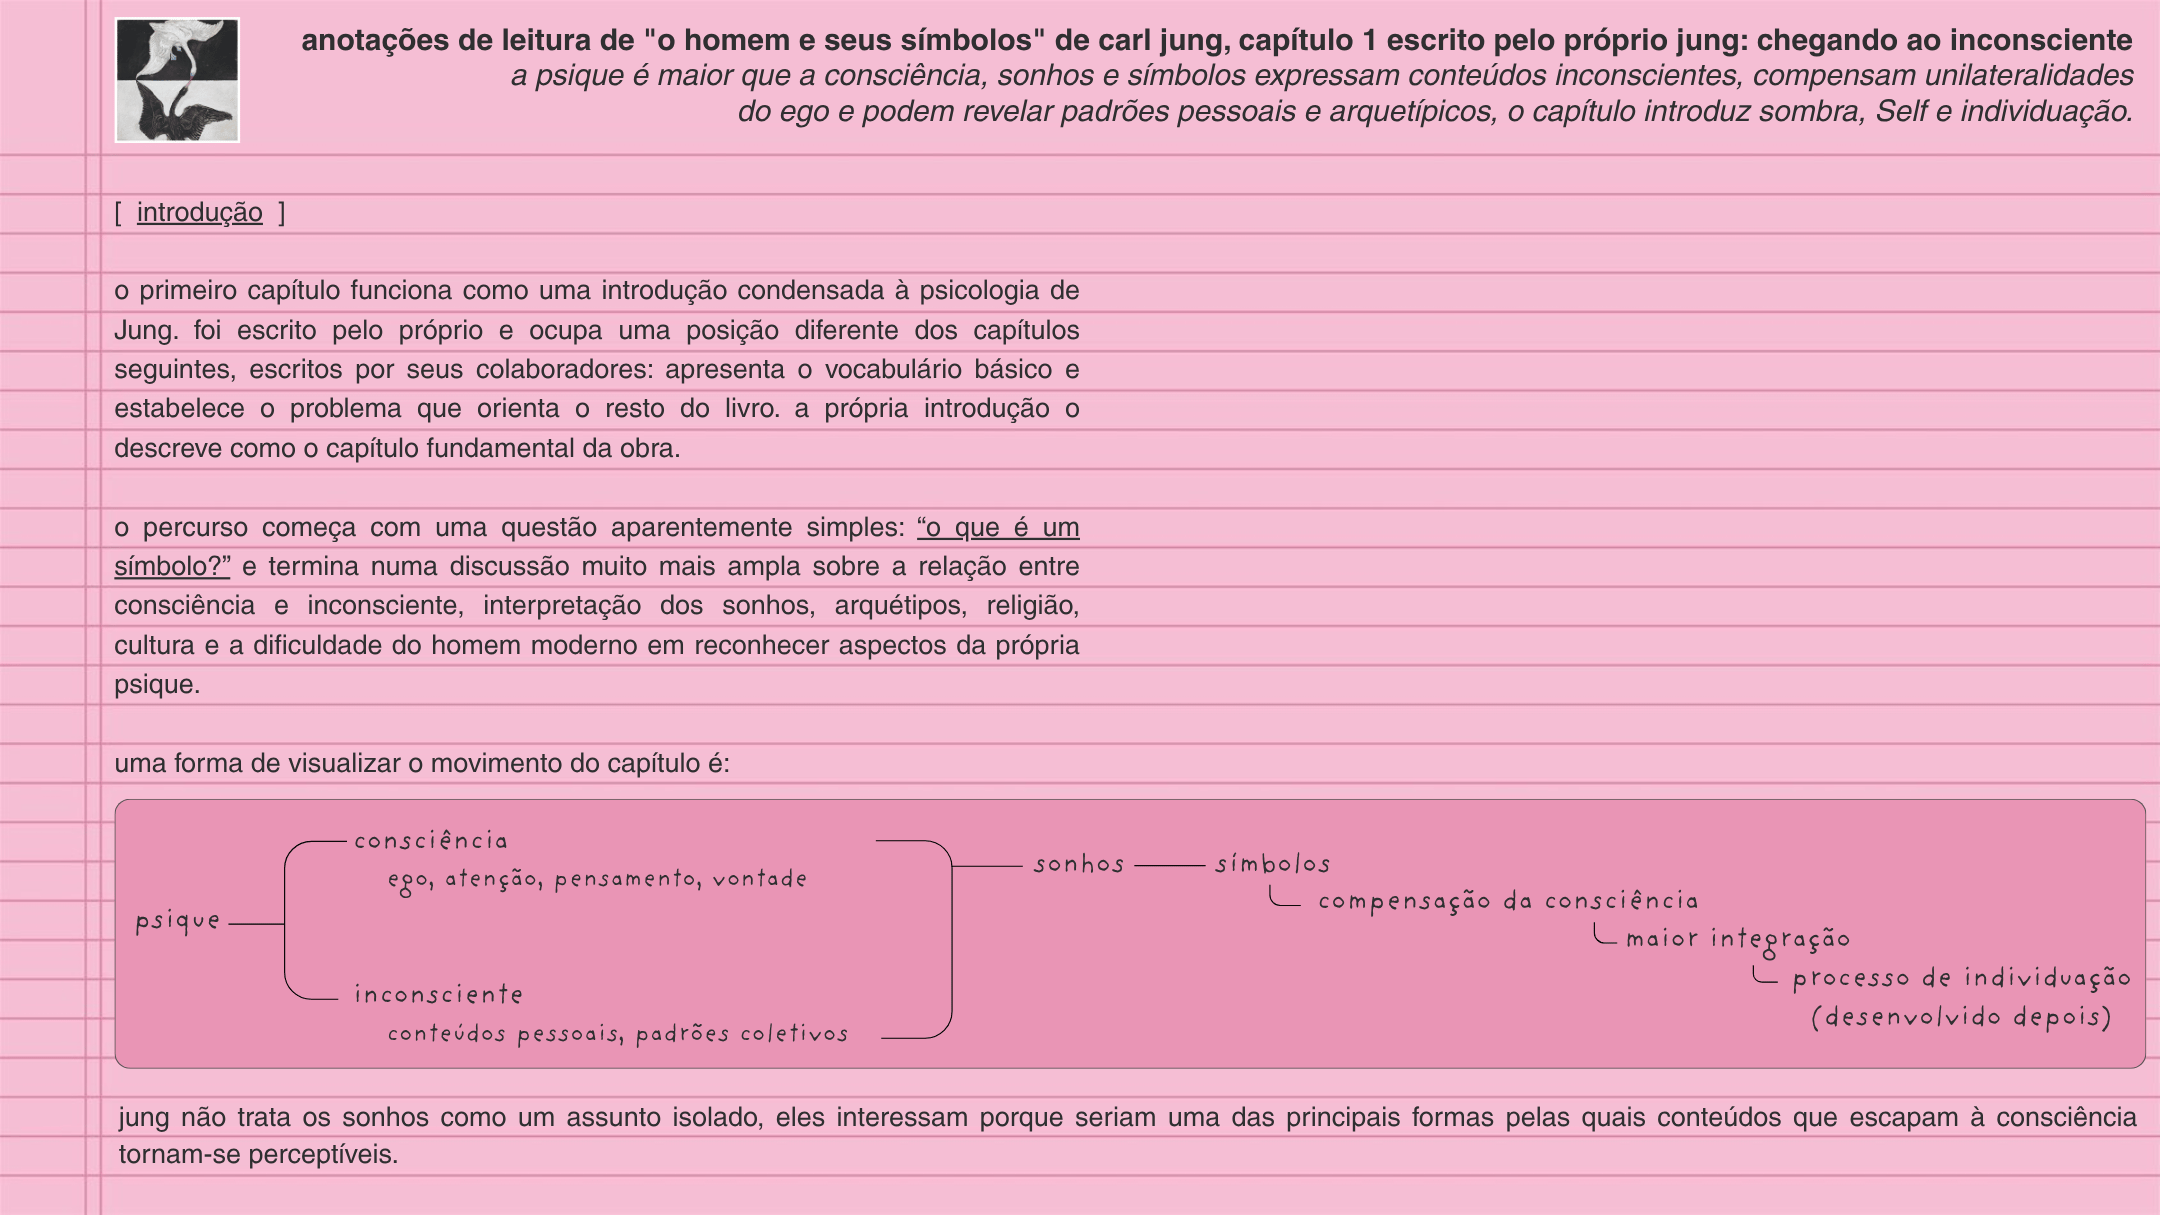
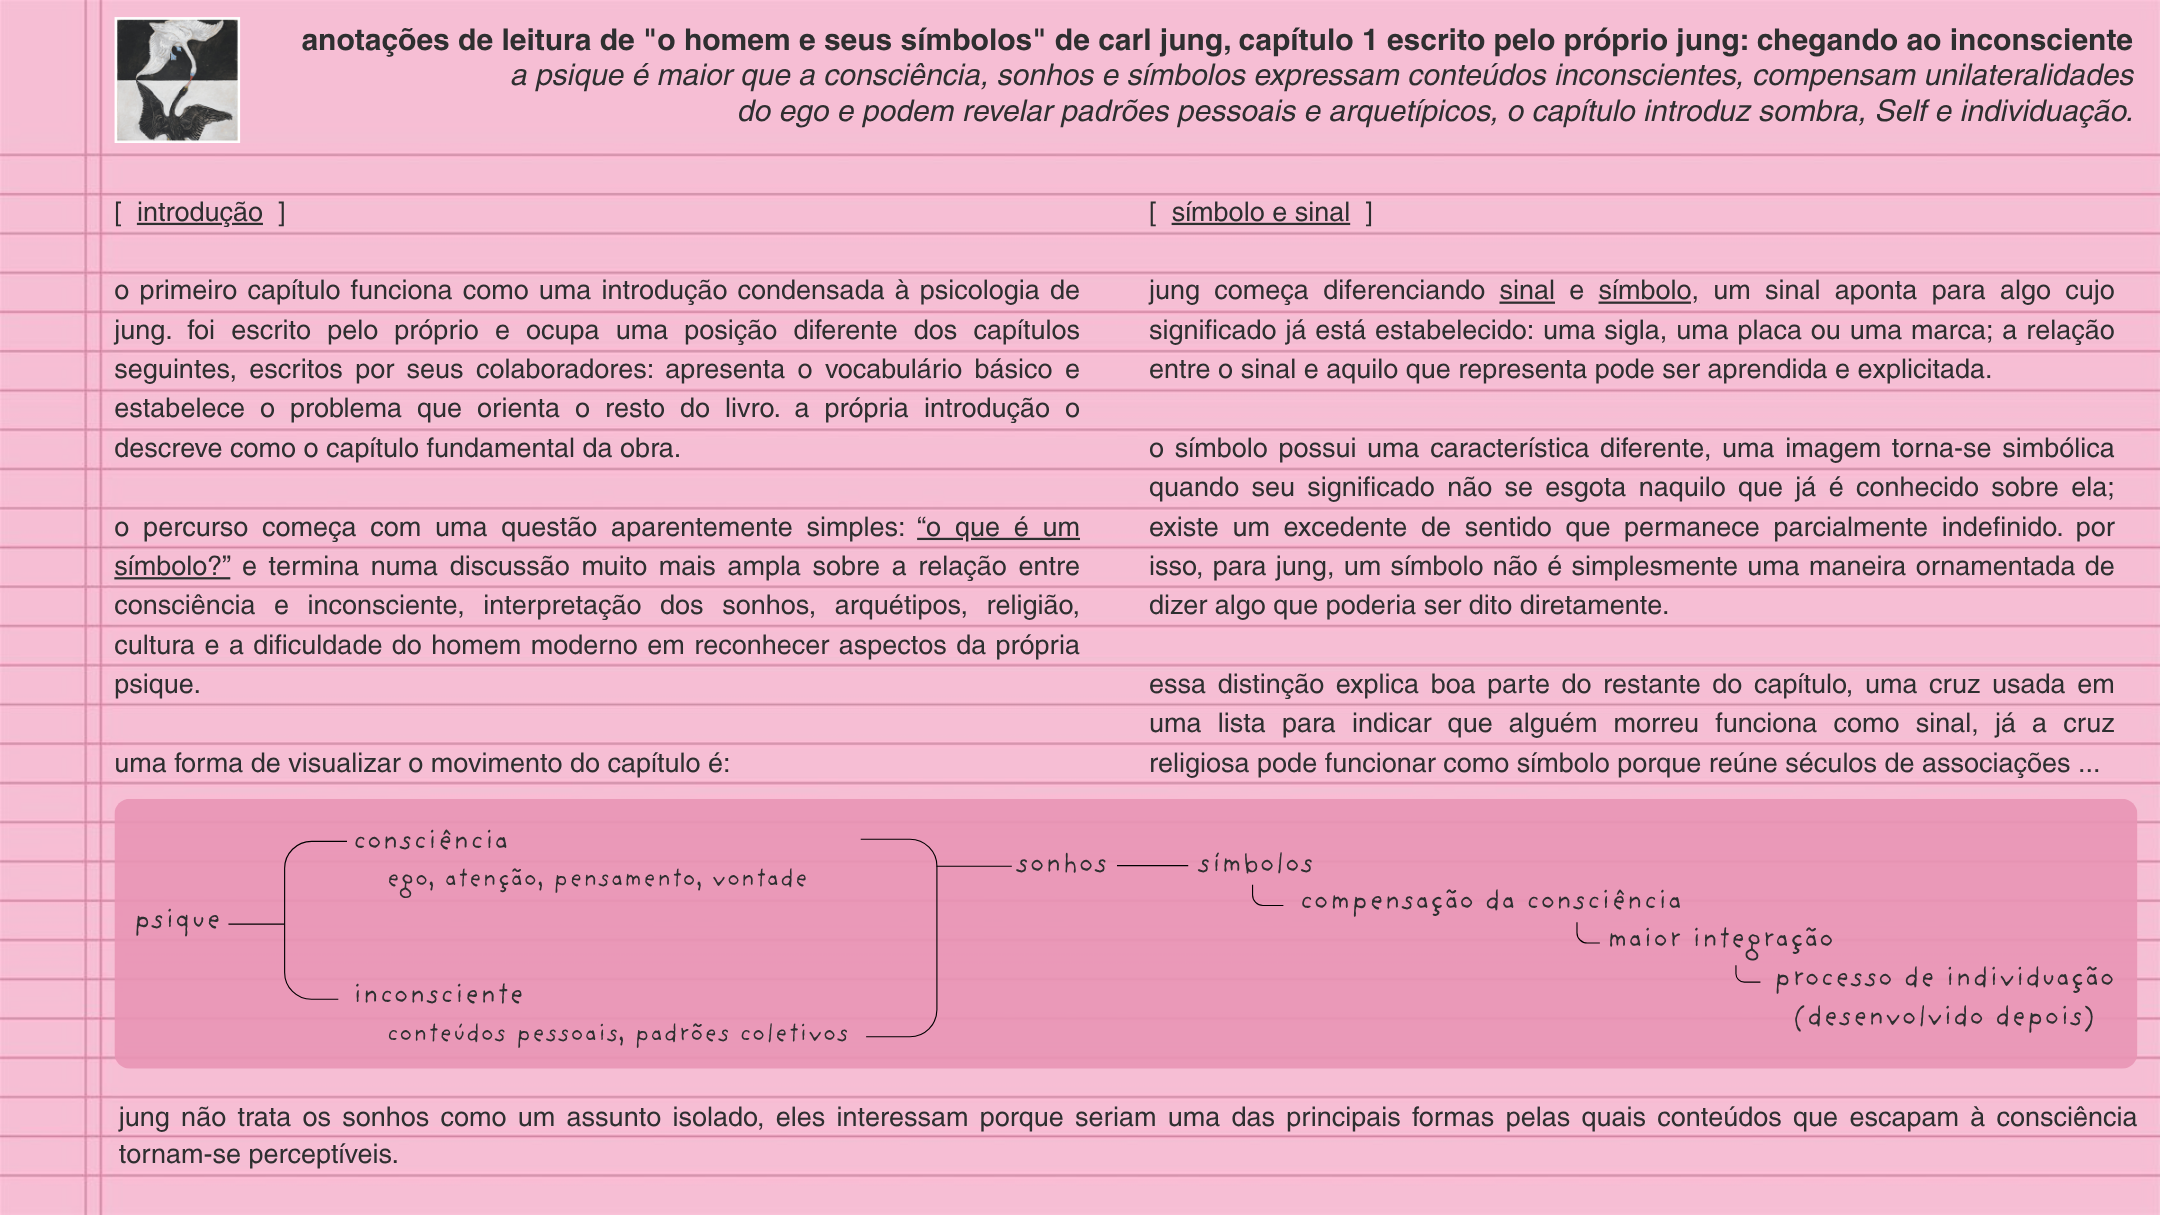
adiciona segundo e terceiro cards do post do jung

diff --git a/index.html b/index.html
@@ -487,6 +487,8 @@
   <button class="cards-close" id="cardsClose" aria-label="fechar">&times;</button>
   <div class="cards-stack">
     <img src="img/card1.png" alt="página 1 das anotações de leitura de o homem e seus símbolos, capítulo 1">
+    <img src="img/card2.png" alt="página 2 das anotações de leitura de o homem e seus símbolos, capítulo 1">
+    <img src="img/card3.png" alt="página 3 das anotações de leitura de o homem e seus símbolos, capítulo 1">
   </div>
 </div>
 
